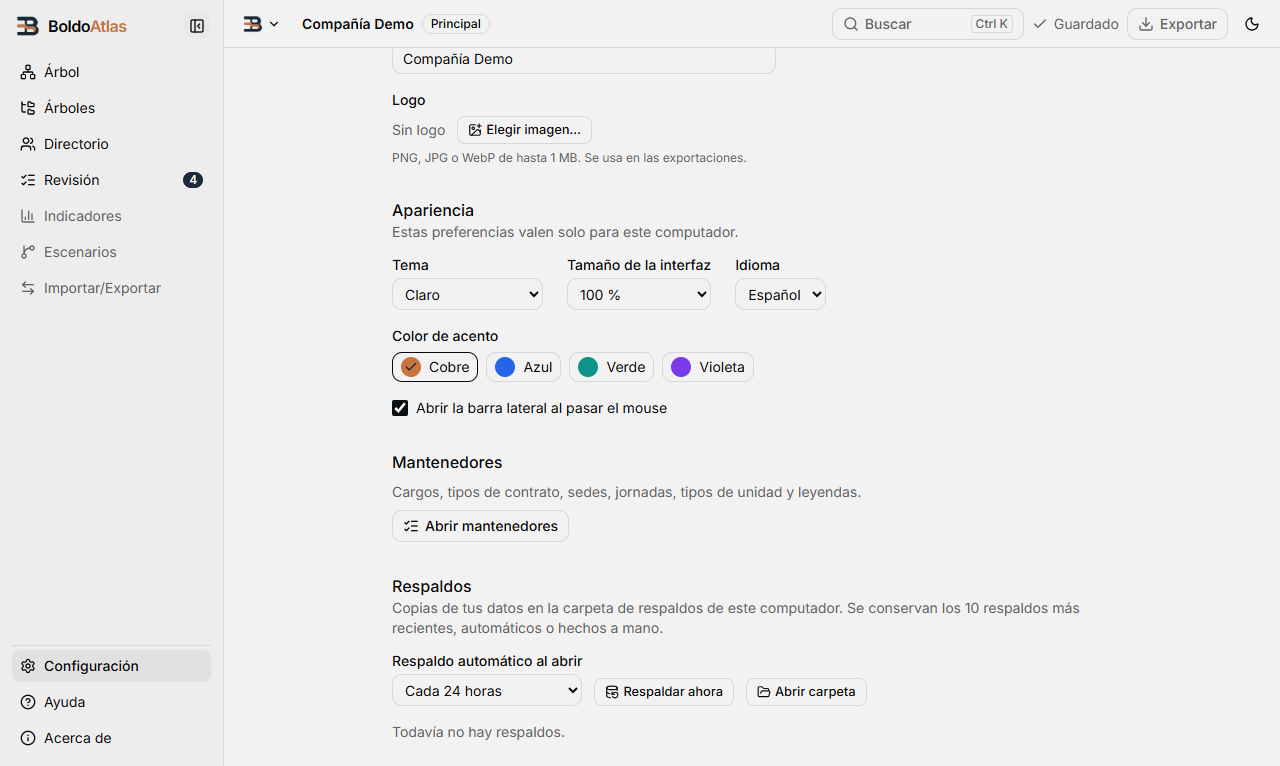
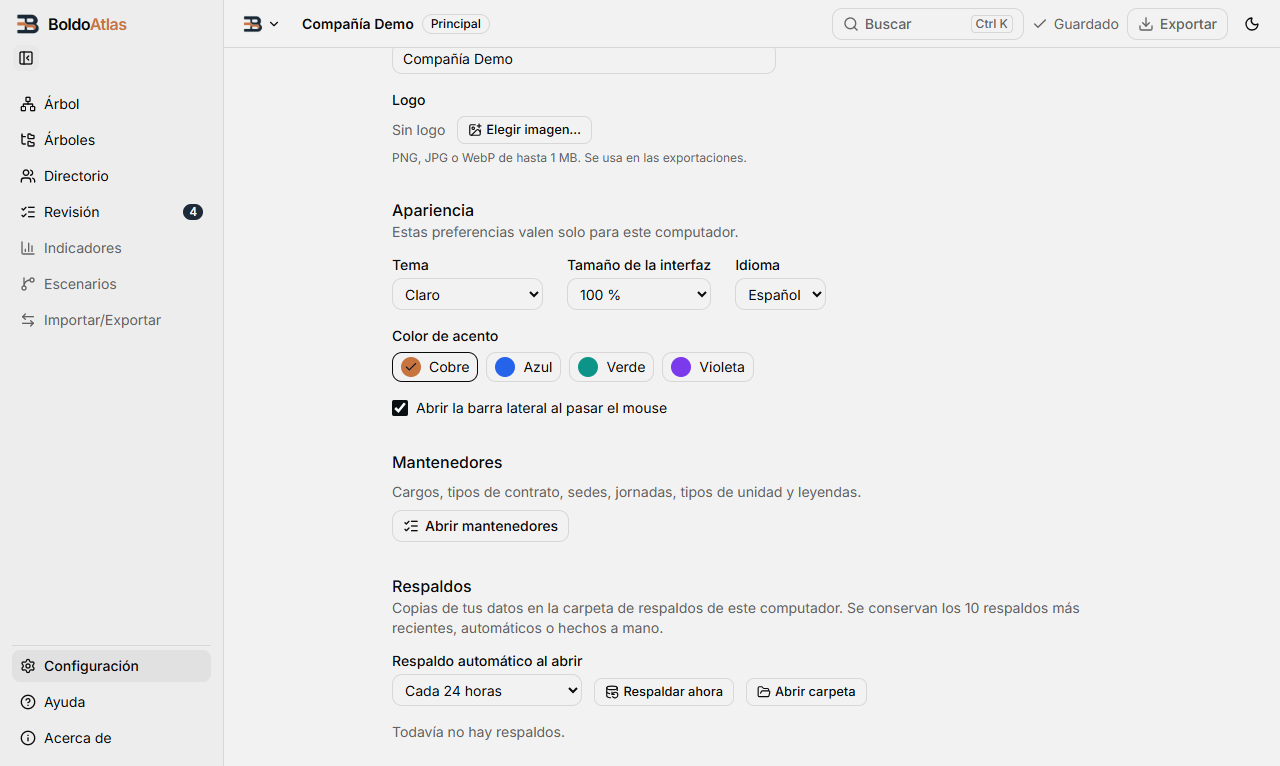
fix(18d): barra lateral sin saltos al desplegarse y textos AA
- Barra lateral: el botón va siempre bajo el logo y los ítems tienen alto
  fijo; contraída, desplegada o fija, nada se mueve bajo el puntero.
  Con el foco del teclado dentro, salir con el mouse no la pliega.
- Modo claro: --destructive oklch(0.53 0.235 27.325) (5,00 sobre el fondo,
  4,57 sobre muted, 5,61 en blanco encima); avisos ámbar 700 → 800.
- El puesto de jefatura encabeza la pila de su unidad.
- reubicar(): la reubicación de «Reordenar», con test; test de filas que
  empiezan juntas entre superiores distintos.
- Selector de fecha: la ayuda queda ligada al campo (aria-describedby).

diff --git a/src/App.vue b/src/App.vue
@@ -96,9 +96,13 @@ watch(
 );
 // Contraída, se despliega sobre el contenido al pasar el mouse o entrar el foco (opción de Configuración); `angosta` es
 // lo que se ve: solo íconos.
-const { flotando, entrar, salir, enfocar, cerrar } = useBarraFlotante(colapsada);
-const angosta = computed(() => colapsada.value && !flotando.value);
 const navegacion = ref<HTMLElement | null>(null);
+// :focus-visible = foco del teclado (un clic con el mouse no lo marca): mientras esté dentro, salir con el mouse no la pliega.
+const { flotando, entrar, salir, enfocar, cerrar } = useBarraFlotante(
+  colapsada,
+  () => !!navegacion.value?.matches(":has(:focus-visible)"),
+);
+const angosta = computed(() => colapsada.value && !flotando.value);
 function alSalirFoco(e: FocusEvent) {
   if (!navegacion.value?.contains(e.relatedTarget as Node | null)) cerrar();
 }
@@ -129,8 +133,10 @@ function escEnBarra(e: KeyboardEvent) {
           @focusout="alSalirFoco"
           @keydown.esc="escEnBarra"
         >
-          <div class="flex items-center gap-2 pb-3" :class="angosta ? 'flex-col' : 'pl-1'">
-            <p class="flex items-center gap-2 text-base font-semibold tracking-tight">
+          <!-- El botón va bajo el logo, igual contraída, desplegada o fija: abrirla solo revela los textos y nada se mueve
+               bajo el puntero (en la barra angosta no cabe al lado). -->
+          <div class="flex flex-col items-start gap-2 pb-3">
+            <p class="flex h-6 items-center gap-2 px-1 text-base font-semibold tracking-tight">
               <img :src="icono" alt="" class="size-6 shrink-0" />
               <span v-if="!angosta">Boldo<span class="text-marca">Atlas</span></span>
               <span v-else class="sr-only">BoldoAtlas</span>
@@ -139,7 +145,6 @@ function escEnBarra(e: KeyboardEvent) {
             <Button
               variant="ghost"
               size="icon-sm"
-              :class="!angosta && 'ml-auto'"
               :aria-label="colapsada ? t('barra.mostrarBarra') : t('barra.ocultarBarra')"
               :title="colapsada ? t('barra.mostrarBarra') : t('barra.ocultarBarra')"
               :aria-expanded="!colapsada"
@@ -156,7 +161,7 @@ function escEnBarra(e: KeyboardEvent) {
                   v-if="item.to"
                   :to="item.to"
                   :aria-label="angosta ? nombre(item) : undefined"
-                  class="relative flex items-center gap-2 rounded-md px-2 py-1.5 text-sm hover:bg-sidebar-accent focus-visible:outline-2 focus-visible:outline-ring"
+                  class="relative flex h-8 shrink-0 items-center gap-2 rounded-md px-2 text-sm hover:bg-sidebar-accent focus-visible:outline-2 focus-visible:outline-ring"
                   active-class="bg-sidebar-accent font-medium"
                   @click.capture="alPulsar($event, item)"
                   @auxclick="clicNuevaPestana($event, item.to)"
@@ -179,7 +184,7 @@ function escEnBarra(e: KeyboardEvent) {
                   type="button"
                   aria-disabled="true"
                   :aria-label="angosta ? t(item.etiqueta) : undefined"
-                  class="flex cursor-not-allowed items-center gap-2 rounded-md px-2 py-1.5 text-left text-sm text-muted-foreground focus-visible:outline-2 focus-visible:outline-ring"
+                  class="flex h-8 shrink-0 cursor-not-allowed items-center gap-2 rounded-md px-2 text-left text-sm text-muted-foreground focus-visible:outline-2 focus-visible:outline-ring"
                 >
                   <component :is="item.icono" class="size-4 shrink-0" aria-hidden="true" />
                   <span v-if="!angosta">{{ t(item.etiqueta) }}</span>

diff --git a/src/features/arbol/layout.ejemplo.test.ts b/src/features/arbol/layout.ejemplo.test.ts
@@ -2,7 +2,7 @@ import { describe, it, expect, beforeAll, vi } from "vitest";
 import { createPinia, setActivePinia } from "pinia";
 import { abrirBasePrueba, type BasePrueba } from "@/db/prueba/sqlite";
 import { useOrganizacion } from "@/stores/organizacion";
-import { aristasDibujadas, calcularLayout, subgrafoVisible, type Subgrafo } from "./layout";
+import { aristasDibujadas, calcularLayout, reubicar, subgrafoVisible, type Subgrafo } from "./layout";
 import { VISTA_POR_DEFECTO, separaciones, tamPuesto, tamUnidad, type ConfigVista } from "./vista";
 
 const h = vi.hoisted(() => ({ bd: null as BasePrueba | null }));
@@ -64,11 +64,19 @@ describe("layout del ejemplo con puestos", () => {
               if (!alinearPorTipo) expect(nivel(x.id)).toBe(nivel(hijas[0]!.id));
             }
           }
-          // Las unidades de una misma fila empiezan a la misma altura, tengan o no puestos.
+          // Las unidades de una misma fila (misma profundidad) empiezan a la misma altura, sean o no del mismo superior y
+          // tengan o no puestos (p. ej. Mantención, bajo Operaciones, y Selección, bajo Personas).
           if (!alinearPorTipo) {
-            const op = g.nodos.find((x) => x.parent_id === null)!;
-            const hijas = g.nodos.filter((x) => x.parent_id === op.id).map((x) => nivel(x.id));
-            expect(new Set(hijas).size).toBe(1);
+            const porId = new Map(g.nodos.map((x) => [x.id, x]));
+            const hondura = (id: string): number => {
+              const padre = porId.get(id)?.parent_id;
+              return padre ? hondura(padre) + 1 : 0;
+            };
+            const inicios = new Map<number, Set<number>>();
+            for (const x of g.nodos)
+              inicios.set(hondura(x.id), (inicios.get(hondura(x.id)) ?? new Set()).add(nivel(x.id)));
+            expect(inicios.size).toBeGreaterThanOrEqual(4); // el ejemplo tiene filas de primos (nivel 2 y 3)
+            for (const [, s] of inicios) expect(s.size).toBe(1);
           }
           // Ningún puesto se cruza con una tarjeta de otra unidad.
           const cajas = [...pos].map(([id, q]) => ({ id, ...q, w: t(id).ancho, h: t(id).alto }));
@@ -92,5 +100,20 @@ describe("layout del ejemplo con puestos", () => {
     for (const x of hijas) expect(aristas).toContainEqual([propios[propios.length - 1], x]);
     expect(aristas).toHaveLength(g.jerarquicas.length); // una línea por cada relación: ninguna se pierde ni se repite
     expect(new Set(aristas.map(([, b]) => b)).size).toBe(aristas.length);
+  });
+
+  it("reubicar («Reordenar» con la misma forma): devuelve a su lugar una tarjeta movida a mano y actualiza lo dibujado", async () => {
+    const pos = await calcularLayout(g);
+    const dibujadas = new Map([...pos].map(([id, q]) => [id, { position: { ...q } }]));
+    const guardadas = new Map(pos);
+    const movida = g.nodos[1]!.id;
+    dibujadas.get(movida)!.position = { x: 9999, y: -9999 };
+    guardadas.set(movida, { x: 1, y: 1 });
+    reubicar(pos, guardadas, (id) => dibujadas.get(id));
+    for (const [id, q] of pos) {
+      expect(dibujadas.get(id)!.position).toEqual(q);
+      expect(guardadas.get(id)).toEqual(q);
+    }
+    reubicar(pos, guardadas, () => undefined); // una tarjeta que aún no está en el lienzo no falla
   });
 });

diff --git a/src/features/arbol/layout.ts b/src/features/arbol/layout.ts
@@ -81,7 +81,10 @@ export function subgrafoVisible(
     if (vistos.has(x.id)) return;
     vistos.add(x.id);
     nodos.push(x);
-    for (const p of porUnidad.get(x.id) ?? []) {
+    // El puesto de jefatura encabeza la pila (las líneas bajan por los puestos en este orden); los demás, por `orden`.
+    const propios = porUnidad.get(x.id) ?? [];
+    const jefe = propios.find((p) => p.id === x.jefe_puesto_id);
+    for (const p of jefe ? [jefe, ...propios.filter((q) => q !== jefe)] : propios) {
       delGrafo.push(p);
       jerarquicas.push([x.id, p.id]);
     }
@@ -261,6 +264,22 @@ export function posiciones(
     siguiente.set(p.unidad_id, desde + m.largo(tamDelPuesto) + m.sep.puestos);
   }
   return res;
+}
+
+/**
+ * Lleva cada tarjeta dibujada a su lugar del layout sin rehacer los nodos (camino rápido cuando la forma no cambió): así
+ * «Reordenar» devuelve también las que se hayan movido. `guardadas` (lo dibujado) queda con las posiciones nuevas.
+ */
+export function reubicar(
+  pos: Map<string, { x: number; y: number }>,
+  guardadas: Map<string, { x: number; y: number }>,
+  nodo: (id: string) => { position: { x: number; y: number } } | undefined,
+): void {
+  for (const [id, p] of pos) {
+    guardadas.set(id, p); // si los nodos se rehacen por otra razón, ya usan la posición nueva
+    const n = nodo(id);
+    if (n) n.position = p;
+  }
 }
 
 /**

diff --git a/src/app/barraLateral.ts b/src/app/barraLateral.ts
@@ -16,10 +16,11 @@ export function guardarAbrirAlPasar(si: boolean): void {
 
 /**
  * Barra lateral contraída que se despliega sobre el contenido (sin correrlo): con el mouse tras DEMORA_ABRIR y se pliega
- * DEMORA_CERRAR después de salir; con el teclado, al entrar el foco, y se pliega al salir el foco o con Esc. Solo si la
+ * DEMORA_CERRAR después de salir (salvo con el foco del teclado dentro); con el teclado, al entrar el foco, y se pliega al
+ * salir el foco o con Esc. Solo si la
  * barra está contraída y la opción de Configuración está activa.
  */
-export function useBarraFlotante(colapsada: Ref<boolean>) {
+export function useBarraFlotante(colapsada: Ref<boolean>, focoDelTeclado: () => boolean = () => false) {
   const flotando = ref(false);
   let reloj: ReturnType<typeof setTimeout> | undefined;
   const fijar = (abierta: boolean, demora = 0) => {
@@ -35,7 +36,8 @@ export function useBarraFlotante(colapsada: Ref<boolean>) {
     flotando,
     abrirAlPasar,
     entrar: () => puede() && fijar(true, DEMORA_ABRIR),
-    salir: () => fijar(false, DEMORA_CERRAR),
+    // Con el foco del teclado dentro sigue abierta (WCAG 1.4.13): se pliega al salir el foco o con Esc.
+    salir: () => !focoDelTeclado() && fijar(false, DEMORA_CERRAR),
     enfocar: () => puede() && fijar(true),
     cerrar: () => fijar(false),
   };

diff --git a/src/features/arbol/layout.test.ts b/src/features/arbol/layout.test.ts
@@ -2,6 +2,7 @@ import { describe, expect, it } from "vitest";
 import type { Conexion } from "../../db/tipos";
 import { p, puestos, tipos, u, unidades } from "./fixture";
 import {
+  aristasDibujadas,
   calcularLayout,
   colapsadosIniciales,
   contraerRama,
@@ -95,6 +96,18 @@ describe("layout del árbol", () => {
     expect(colapsados.has("operaciones")).toBe(true);
     const g = subgrafoVisible(unidades, [], colapsados, [p("px", "operaciones")]);
     expect(ids(g.puestos)).toEqual(["px"]);
+  });
+
+  it("el puesto de jefatura encabeza la pila de su unidad; los demás siguen por orden", () => {
+    const conJefe = unidades.map((x) => (x.id === "gg" ? { ...x, jefe_puesto_id: "pj" } : x));
+    const de = (id: string, orden: number) => ({ ...p(id, "gg"), orden });
+    const g = subgrafoVisible(conJefe, [], new Set(), [de("pb", 2), de("pj", 3), de("pa", 1)]);
+    expect(g.puestos.map((x) => x.id)).toEqual(["pj", "pa", "pb"]);
+    expect(aristasDibujadas(g).filter(([, b]) => ["pj", "pa", "pb"].includes(b))).toEqual([
+      ["gg", "pj"],
+      ["pj", "pa"],
+      ["pa", "pb"],
+    ]);
   });
 
   it("calcularLayout ubica los puestos debajo de su unidad", async () => {

diff --git a/src/features/unidades/PanelUnidad.vue b/src/features/unidades/PanelUnidad.vue
@@ -318,7 +318,7 @@ async function eliminar() {
               <option v-for="f in filas" :key="f.id" :value="f.id">{{ textoPuesto(f) }}</option>
             </select>
             <p v-if="jefe" class="text-sm">{{ jefe }}</p>
-            <p v-else class="text-sm text-amber-700 dark:text-amber-400">
+            <p v-else class="text-sm text-amber-800 dark:text-amber-400">
               {{ filas.length ? t("arbol.sinJefatura") : t("unidad.sinPuestosJefatura") }}
             </p>
           </div>
@@ -410,7 +410,7 @@ async function eliminar() {
                   </span>
                   <span
                     class="truncate text-xs"
-                    :class="f.titular ? 'text-muted-foreground' : 'text-amber-700 dark:text-amber-400'"
+                    :class="f.titular ? 'text-muted-foreground' : 'text-amber-800 dark:text-amber-400'"
                   >
                     {{ f.titular || t("puesto.vacante") }}
                     <template v-if="f.reemplazo">

diff --git a/src/app/barraLateral.test.ts b/src/app/barraLateral.test.ts
@@ -51,6 +51,24 @@ describe("barra lateral flotante", () => {
     expect(b.flotando.value).toBe(false);
   });
 
+  it("con el foco del teclado dentro, salir con el mouse no la pliega (Esc sí)", () => {
+    const colapsada = ref(true);
+    let teclado = true;
+    const b = effectScope().run(() => useBarraFlotante(colapsada, () => teclado))!;
+    b.enfocar();
+    b.salir();
+    vi.advanceTimersByTime(DEMORA_CERRAR * 2);
+    expect(b.flotando.value).toBe(true);
+    teclado = false; // foco puesto con un clic: no cuenta como del teclado
+    b.salir();
+    vi.advanceTimersByTime(DEMORA_CERRAR);
+    expect(b.flotando.value).toBe(false);
+    teclado = true;
+    b.enfocar();
+    b.cerrar();
+    expect(b.flotando.value).toBe(false);
+  });
+
   it("no se despliega si está fija abierta o si la opción está apagada; fijarla termina el despliegue", async () => {
     const abierta = barra(false);
     abierta.entrar();

diff --git a/src/features/arbol/VistaArbol.vue b/src/features/arbol/VistaArbol.vue
@@ -37,6 +37,7 @@ import {
   aristasDibujadas,
   grafoElk,
   posiciones,
+  reubicar,
   subgrafoVisible,
   colapsadosIniciales,
   unidadesDeRama,
@@ -282,12 +283,8 @@ watch(
     }
     const antes = dibujo.value;
     vista.value = { g, pos };
-    if (antes && forma(antes.g) === forma(g))
-      for (const [id, p] of pos) {
-        antes.pos.set(id, p); // sin avisar a `nodos`: si se rehace por otra razón, ya usa la posición nueva
-        const n = findNode(id);
-        if (n) n.position = p;
-      }
+    // Sin avisar a `nodos`: las tarjetas se mueven en su lugar.
+    if (antes && forma(antes.g) === forma(g)) reubicar(pos, antes.pos, findNode);
     else dibujo.value = vista.value;
     podarSeleccion(new Set(g.nodos.map((u) => u.id))); // lo que se plegó ya no cuenta como seleccionado
     if (!encuadrar && !centrar) return;

diff --git a/src/features/arbol/NodoPuesto.vue b/src/features/arbol/NodoPuesto.vue
@@ -83,7 +83,7 @@ const tam = computed(() => {
     <span class="min-w-0" :class="compacta ? 'flex gap-1.5' : 'grid'">
       <span :class="config.mostrarCargo ? 'truncate font-medium' : 'sr-only'">{{ data.cargo }}</span>
       <span :class="config.mostrarPersona ? (compacta ? 'flex min-w-0' : 'grid') : 'sr-only'">
-        <span class="truncate" :class="!data.titular && 'text-amber-700 dark:text-amber-400'">
+        <span class="truncate" :class="!data.titular && 'text-amber-800 dark:text-amber-400'">
           {{ data.titular || t("puesto.vacante") }}
         </span>
         <span v-if="data.reemplazo && !compacta" class="truncate text-muted-foreground">

diff --git a/src/features/arbol/SelectorFecha.vue b/src/features/arbol/SelectorFecha.vue
@@ -60,12 +60,13 @@ function terminarFecha(e: Event) {
           :min="FECHA_MINIMA"
           :max="hoyISO()"
           :model-value="org.fechaVista ?? ''"
+          aria-describedby="ayuda-fecha-vista"
           @change="cambiarFecha"
           @blur="terminarFecha"
           @keydown.enter="terminarFecha"
         />
       </label>
-      <p class="text-xs text-muted-foreground">{{ t("arbol.fecha.ayuda") }}</p>
+      <p id="ayuda-fecha-vista" class="text-xs text-muted-foreground">{{ t("arbol.fecha.ayuda") }}</p>
     </PopoverContent>
   </Popover>
 </template>

diff --git a/src/features/arbol/NodoUnidad.vue b/src/features/arbol/NodoUnidad.vue
@@ -228,7 +228,7 @@ async function guardar(e: Event) {
           {{ data.jefeReemplazo ? t("arbol.reemplazo", { nombre: data.jefe.nombre }) : data.jefe.nombre }}
         </span>
       </template>
-      <span v-else class="text-amber-700 dark:text-amber-400">{{ t("arbol.sinJefatura") }}</span>
+      <span v-else class="text-amber-800 dark:text-amber-400">{{ t("arbol.sinJefatura") }}</span>
     </div>
     <div class="flex items-center gap-1.5" :class="compacta ? 'ml-auto' : 'mt-auto'">
       <!-- Seleccionada y compacta: el lugar es de los botones. -->

diff --git a/src/features/puestos/DialogoPuesto.vue b/src/features/puestos/DialogoPuesto.vue
@@ -252,7 +252,7 @@ async function verPersona(id: string) {
                   {{ t("puesto.accion.terminar") }}
                 </Button>
               </template>
-              <p v-else-if="tipo === 'titular'" class="text-sm text-amber-700 dark:text-amber-400">
+              <p v-else-if="tipo === 'titular'" class="text-sm text-amber-800 dark:text-amber-400">
                 {{ t("puesto.vacante") }}
               </p>
               <p v-else class="text-sm text-muted-foreground">{{ t("puesto.sinReemplazo") }}</p>
